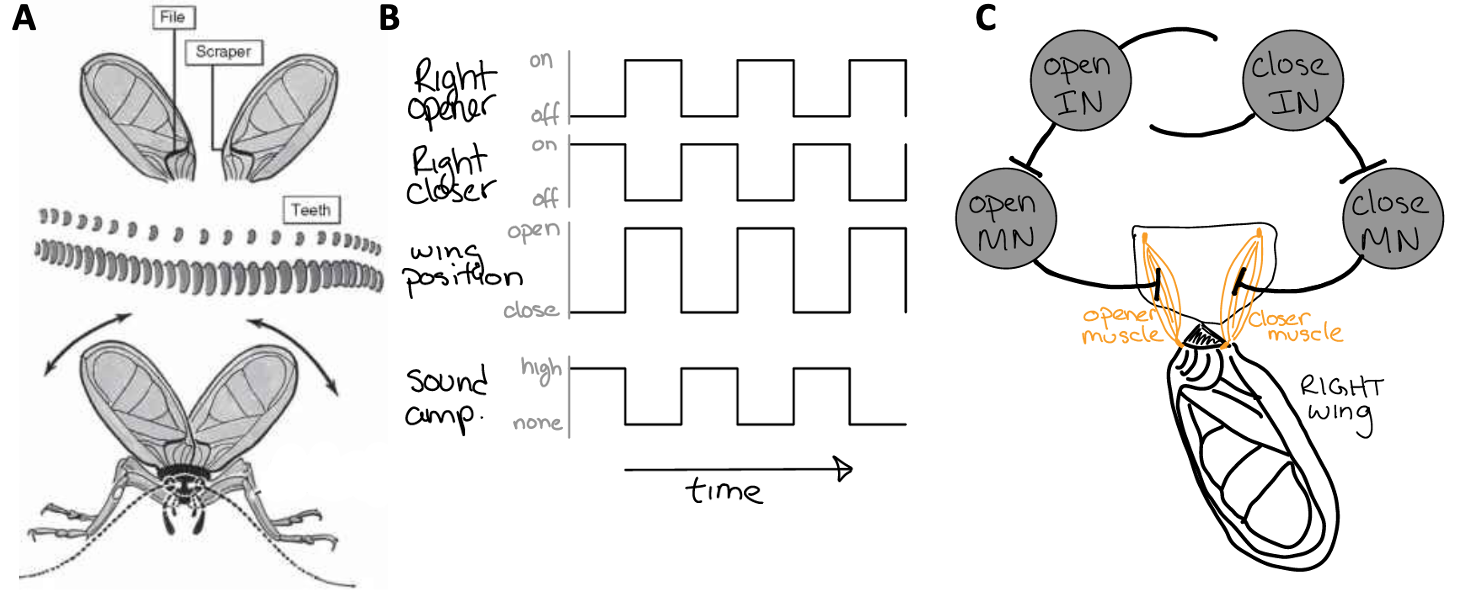
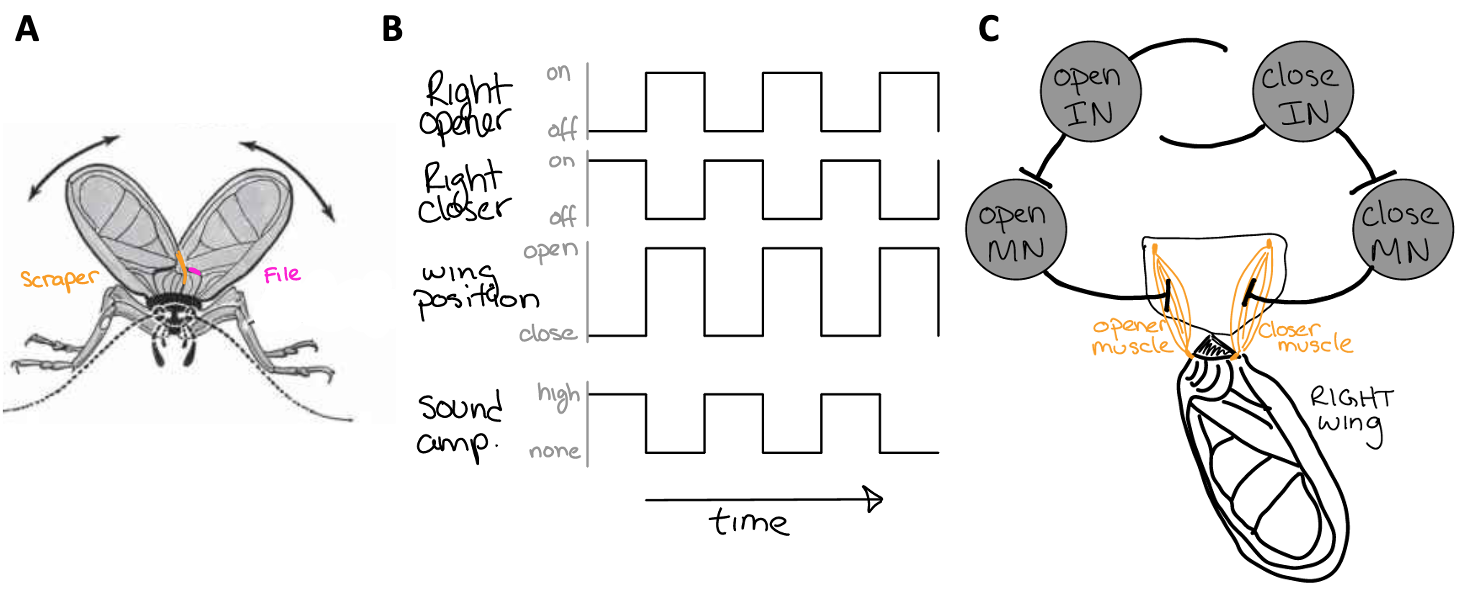
edits to neural mechanisms

diff --git a/levels-of-analysis/neural.md b/levels-of-analysis/neural.md
@@ -1,6 +1,6 @@
 # Neural Mechanisms
 
-[Day 1](neural_day1)
+[Day 1](neural_day1)  
 [Day 2](neural_day2)
 <!-- <hr>
 
@@ -229,7 +229,7 @@ A) Motor neurons synapse onto muscles. B) Motor neurons vary their rate (frequen
 
 Sensors are special types of neurons that change their membrane potential in response to changes in physical energy in the environment. Physical energy can take the form of light, pressure, movement, etc. 
 
-Let's consider a sensor that hyperpolarizes in response to an increase in light (example mechanism in the margin figure) and depolarizes in response to an increase in light. The hyperpolarization decreases its synaptic release of molecules (*neurotransmitters*). This sensor provides inhibitory synaptic input to a "post-synaptic" neuron. 
+Let's consider a sensor that hyperpolarizes in response to an increase in light (example mechanism in the margin figure) and depolarizes in response to an decrease in light. The hyperpolarization decreases its synaptic release of molecules (*neurotransmitters*). Let's say this sensor neuron (SN) provides inhibitory synaptic input to a "post-synaptic" (PN) neuron (Figure 27A). 
 
 :::{figure} /images/sensor-circuit.png
 :width: 600
@@ -237,9 +237,15 @@ Let's consider a sensor that hyperpolarizes in response to an increase in light 
 **A)** A sensor neuron (SN) that hyperpolarizes in response to light synapses onto a post-synaptic neuron (PN). The synapse is inhibitory for the PN. **B)** Synaptic release from the sensor is proportional to its membrane potential. **C)** Example changes in membrane potential for the SN and PN in response to a change in the light stimulus over time. 
 :::
 
+---
+> ⏳ 3 min 
+
 ***Q1: What happens to the membrane potential of the post-synaptic neuron when there is a flash of light onto the sensor?***
 
 
+⏸ PAUSE here for class-wide discussion
+
+---
 ### Circuits
 
 When groups of neurons connect with each other via inhibitory or excitatory synapses to form circuits, complex outputs can emerge. 
@@ -251,14 +257,14 @@ When groups of neurons connect with each other via inhibitory or excitatory syna
 
 A) Two excitatory synapses in a row. If the first neuron depolarized and spiked, the second neuron would then depolarize soon after and may spike as well. If the first neuron hyperpolarized, it would not spike and the second neuron would just stay at its *resting* membrane potential (no change in its output).   
 B) An excitatory synapse followed by an inhibitory synapse. If the first neuron depolarized and spiked, the second neuron would then hyperpolarize soon after.     
-C) Convergence and divergence in heterogeneous neural circuits. 
+C) Examples of ***convergence*** and ***divergence*** in heterogeneous neural circuits. 
 :::
 
 
 ---
 > ⏳ 5 min 
 
-***Q2: Draw a neural circuit composed of an auditory sensor neuron, a motor neuron and a muscle. The sensor neuron is depolarized by sudden increases in the amplitude of sound. The circuit should contract the muscle when the sound amplitude in the environment suddenly increases.***
+***Q2: Draw a neural circuit composed of an auditory sensor neuron, a motor neuron and a muscle. The sensor neuron is depolarized by sudden increases in the amplitude of sound (and the depolarization increases its spiking output). The circuit should contract the muscle when the sound amplitude in the environment suddenly increases.***
 
 ***Q3: Draw a neural circuit composed of the same three neurons as in Q2. The circuit should contract the muscle when the sound amplitude in the environment suddenly decreases. Hint: you can make any neuron have a "resting" membrane potential above spike threshold (so that it is spiking in the absense of synaptic input).***
 
@@ -281,7 +287,7 @@ Neuroscience seeks to understand how neural circuits orchestrate behavior. In ge
 :width: 600
 
 Acoustic behavior of *Gryllus campestris*[^hedwig-2006].  A male sings in front of its burrow by rubbing the elevated front wings together. The calling song consists of single sound pulses (syllables) grouped
-into chirps. Attracted by the calling song a female performs phonotaxis and walks towards the singing male using acoustic cues for orientation. 
+into chirps. Females attracted by the calling song perform phonotaxis and walks towards the singing male using acoustic cues for orientation. 
 :::
 
 [^hedwig-2006]: Figure from [Hediwg (2006) Pulses, patterns and paths: neurobiology of acoustic behaviour in crickets. J Comp Physiol A](https://doi.org/10.1007/s00359-006-0115-8). Modified after Roesel von Rosenhof (1749).
@@ -290,28 +296,36 @@ into chirps. Attracted by the calling song a female performs phonotaxis and walk
 
 #### Command versus Pattern
 
-Stereotyped motor patterns (for example, FAPs) are orchestrated by neural circuits that pattern the contraction among sets of muscles. These circuits need to be activated by a ***command*** signal. But, remarkably, the command signal itself (the spiking output of a neuron) does not need to be patterned. 
+:::{index} command neuron
+:::
+
+Stereotyped motor patterns (for example, FAPs) are orchestrated by neural circuits that pattern the contraction among sets of muscles. These circuits are activated by a ***command*** signal (after a decision has been made to do the action). But, remarkably, the command signal itself (the spiking output of a command neuron) does not need to be patterned. We can demonstrate this by using experimental techniques that alter the spiking activity of specific neurons. 
 
 :::{figure} /images/cricket-singing-command-neuron.png
-:width: 700
+:width: 900
 
 Command neuron controlling calling song[^hedwig-2006]. Neuron: A recording of the command neuron's membrane potential across time in the brain of Gryllus bimaculatus. Increasing the neurons spike activity (AP/s) elicits the generation of calling song (Sound): the cricket lifts its wings and starts to sing (Forewing).
 :::
 
-The **command neuron** causes the cricket to sing, but its activity is unpatterned. What causes the patterning of the movement required to produce the patterned song?
+The **command neuron** ("Neuron" in Figure 30) causes the cricket to sing, but its activity is unpatterned. What causes the patterning of the movement required to produce the patterned song?
 
 :::{glossary} 
 central pattern generator (CPG)
-  A neural circuit that can produce patterned output in the absence of patterned input. In other words, it is a circuit that is self-sufficient at producing a stereotyped pattern of spikes that regularly changes over time.
+  A neural circuit that can produce patterned output in the absence of patterned input. In other words, it is a circuit that (once activated) is self-sufficient at producing a stereotyped pattern of spikes that regularly changes over time.
 :::
 
 :::{figure} /images/cricket-cpg-diagram.png
 :width: 800
 
-**A)** The anatomy of a chirp. The cricket's wings have a file and a scraper. When the cricket closes both of its wings together, the scraper rubs the file and vibrates the wings, producing sound. **B)** The pattern of activity among wing opener and closer muscles, wing movement (open and closed), and sound. **C)** A central pattern generator for wing movement that is comprised of motor neurons (MN) that synapse on wing opener and closer muscles and interneurons (IN). The INs provide excitatory input to MNs. MNs provide excitator input to muscles (thus contracting them). INs are also provide synaptic input to each other. 
+**A)** The anatomy of a chirp. The cricket's wings have a file and a scraper. When the cricket closes both of its wings together, the scraper rubs the file and vibrates the wings, producing sound. **B)** The pattern of activity among wing opener and closer muscles, wing position (open and closed), and sound. **C)** A central pattern generator for wing movement that is comprised of motor neurons (MN) that synapse on wing opener and closer muscles and interneurons (IN). The INs provide excitatory input to MNs. MNs provide excitator input to muscles (thus contracting them). INs are also provide synaptic input to each other. 
 ::: 
 
-***Q4: The synaptic input from each IN to the other was left undefined in C. Do these need to be excitatory or inhibitory synapses? Why?***
+---
+> ⏳ 5-10 min 
+
+***Q4: The synaptic input from each IN to the other was left undefined in Figure 31C. Do these need to be excitatory or inhibitory synapses? Why?***
+
+Usually, ***multiple CPGs need to be coordinated with each other*** to generate even simple behavioral actions. 
 
 ::::{margin} 
 :::{image} /images/cricket-hemisection.png
@@ -321,25 +335,29 @@ central pattern generator (CPG)
 :::{figure} /images/cricket-cpg-bilateral-coordination.png
 :width: 400
 
-The entire CPG circuit in Figure 31 can be represented by a circle with a tilde symbol. Often, multiple CPGs need to be coordinated with each other. There is a wing CPG on each side of the animal's body. A command neuron can excite the CPG circuits with unpatterned input. 
+Entire CPG circuits (like the one in Figure 31) are often represented by a circle with a tilde symbol. In this example, there is a wing CPG on each side of the cricket's body that controls the open/close movement of each wing. When the command neuron is *activated*, it excites both CPG circuits with unpatterned input. 
 :::
 
-***Q5: The CPGs for wing movement on each side of the cricket's body need to be coordinated with each other. What synaptic connection is needed from each CPG to the other?***
+***Q5: The CPGs for wing movement on each side of the cricket's body need to be coorectly coordinated with each other to generate song (they need to close together at the same time). To achieve this action, what synaptic connection is needed from each CPG to the other?***
+
+⏸ PAUSE here for class-wide discussion
+
+---
 
 :::{index} sensory filter
 :::
 
 #### Sensory Filtering
 
-Not all sensory stimuli are the same. Stimuli have lots of different ***features***. In the case of cricket song, we will consider two features: the *syllable period* (SP) and the loudness (amplitude). Both of these features can vary across a wide range. 
+Not all sensory stimuli are the same. Stimuli have lots of different ***features***. In the case of cricket song, we will consider two features: the *syllable period* (SP) and the loudness (amplitude). Both of these features can vary across a wide range. Different species generate song with distinct **SP**. For example, different individuals may sing with different amplitude. Amplitude can also vary with environmental features such as distance from the source. 
 
-***Sensory filtering*** results from the stimulus specificity of sensors. Sensors only respond to specific types of physical energy in the world (light, sound, odor) - we refer to these as *modalities*. Then within each modality, different sensors respond best to specific features of a stimulus (frequency of sound, wavelength of light). Each stimulus feature can vary along a continuum, and sensors are even specific to a range of feature values (500 nanometer light, 200 Hz sound). 
+***Sensory filtering*** results from the stimulus *specificity* of sensors. Sensors only respond to specific types of physical energy in the world (light, sound, odor) - we refer to these as *modalities*. Then within each modality, different sensors respond best to specific features of a stimulus (frequency of sound, wavelength of light). Stimulus feature themselves can then vary along a continuum. Sensors are even specific to a range of feature values (500 nanometer light, 200 Hz sound) within a given stimulus modality or category. 
 
-Withouth sensory filtering, there would be no specificity in behavioral responses to stimuli.   
+***Without sensory filtering, there would be no specificity in behavioral responses to stimuli.***   
 
-Female crickets move toward male cricket song. We call this *phonotaxis* and it is an FAP. It would not be adaptive for female crickets to phonotax in response to all sound, so there are sensory filters in their nervous system that are more *sensitive to* the song of a male cricket than to anything else. Different species of crickets have songs with different *syllable period*. The sensory filters are most *sensitive to* conspecific song. 
+For example, female crickets move toward male cricket song when they hear it. We call this ***phonotaxis*** and it is an FAP. It would be maladaptive for female crickets to phonotax in response to all sound. Therefore, there are sensory filters in the female cricket nervous system that are more *sensitive to* the song of a male cricket than to anything else. In addition, these sensory filters are most *sensitive to* the species-specific SP of conspecific male song.  
 
-So what does *sensitive to* mean?  
+So what does ***sensitive to*** mean? We will examine this in the next set of figures and questions.
 
 :::{figure} /images/crickets-phonotaxis-sensory-filter.png
 :width: 800
@@ -347,15 +365,24 @@ So what does *sensitive to* mean?
 Sensory filtering for species-specific song[^hedwig-2006]. **A**) Trackball system for analysing cricket phonotaxis. [See also this video of the behavior](https://youtu.be/oVL82zuPbLU) **B**) Sound patterns to test sensory tuning for conspecific song. **C**) Tuning curve of phonotaxis demonstrates the strongest response to SP34–SP42, which corresponds to the natural range of SP. Phonotaxis declined at shorter or longer syllable periods.
 :::
 
-So, at a basic level, what is a neural mechaism of phonotaxis? Sensory stimuli are transformed into changes in neuron membrane potential by sensors. Sensors then synapse onto *decision* centers in the brain, which trigger specific FAPs. If a certain threshold is reached by a sensory filter, then the FAP will be triggered.  
+At a basic level, let's think about a ***neural mechanism for FAPs***: 
+1. Sensory stimuli are transformed into changes in neuron membrane potential by sensors. 
+2. Sensors then synapse onto *decision* centers in the brain, which trigger specific FAPs. 
+3. If a certain threshold is reached by a sensory filter, then the FAP will be triggered (carried out by coordinated CPGs).
+
 The flow of information is: sensory stimuli --> sensory filter --> decision --> FAP. 
 
+Therefore, we can infer a lot about sensory filters in the nervous system by examining behavioral responses. Additionally, we can observe how the stimulus threshold for behavior is related to the stimulus threshold for spiking in neurons.  
+
 :::{figure} /images/cricket-sensory-filtering.png
-:width: 600
+:width: 700
 :align: center
 
-Both the amplitude and the SP of song effect the membrane potential of a sensory filter. 
+**A)** The song amplitude needed to evoke phonotaxis behavior (the inverse of the Figure 33C). **B&C)** Both the amplitude and the SP of song effect the membrane potential of a sensory filter. Above a certain membrane potential, the sensory filter neuron(s) will spike and activate post-synaptic (*downstream*) decision-making neurons. 
 :::
+
+---
+> ⏳ 5 min 
 
 ***Q6: The song amplitude needed to evoke an FAP is most closely related to the:  
 a. sensory threshold in Lorenz's model  
@@ -371,19 +398,27 @@ c. the action specific potential in Lorenz's model***
 The membrane potential response (y-axis) to stimuli of different amplitudes (x-axis) and SP values (color). If the sensory filter spike threshold is reached, an FAP is produced in response. 
 :::
 
+⏸ PAUSE here for class-wide discussion
+
+---
 
 ### Case Study: Aggression in Mice
 
-Aggression is a social behavior essential for securing resources and defending oneself and family. Many animals have aggressive FAPs. Across animals, we find that the release of FAPs depends, not just on the presence of external *sign stimuli*, but on the internal state of the animal. 
+Aggression is a social behavior essential for securing resources and defending oneself and family. Many animals have aggressive FAPs. Across animals, we find that the release of FAPs depends, not just on the presence of external *sign stimuli* (detected using ***sensory filters***), but on the internal state of the animal. 
+
+
 
 :::{image} /images/aggression-summary-factors.png
 :width: 800
 :::
 
-"Regions of the brain in the core aggression circuit are more specialized for aggression: activating any of those regions evokes attack, often in a time-locked manner, while inactivating any of those regions impairs or even abolishes natural aggression. The fact that aggression can be triggered as well as blocked from each of those regions supports the idea that these regions form one integrated circuit. 
+:::{epigraph}
+Regions of the brain in the core aggression circuit are more specialized for aggression: activating any of those regions evokes attack, often in a time-locked manner, while inactivating any of those regions impairs or even abolishes natural aggression. The fact that aggression can be triggered as well as blocked from each of those regions supports the idea that these regions form one integrated circuit. 
 
-The ventrolateral nucleus of the ventromedial hypothalamus (VMHvl) is perhaps the best studied region for aggression in recent years, with the vast majority of the studies done in mice. Electrical stimulation or pharmacological manipulation in the VMHvl can elicit aggression in cats, chickens, opossums and monkeys. In male and female mice, optogenetic activation of VMHvl cells, especially those expressing estrogen receptor alpha (Esr1), elicited time-locked attack toward both natural (other mice) and suboptimal targets (gloves filled with water or air; or socially inappropriate attacks at conspecifics). Upon male-intruder introduction, VMHvl cells show an elevation in baseline activity, which is sustained throughout the duration of the intruder’s presence and minutes after removal of the intruder. During male–male investigation and attack, VMHvl activity increases further, and then returns to the elevated baseline at the offset of the behavioral episode. Thus, the VMHvl cells appear to carry information regarding aggressive arousal state, aggression-provoking sensory cues and the motor execution of
-attacks."[^dayu-review]
+The ventrolateral nucleus of the ventromedial hypothalamus (VMHvl) is perhaps the best studied region for aggression in recent years, with the vast majority of the studies done in mice. Electrical stimulation or pharmacological manipulation in the VMHvl can elicit aggression in cats, chickens, opossums and monkeys. In male and female mice, optogenetic activation of VMHvl cells, especially those expressing estrogen receptor alpha (Esr1), elicited time-locked attack toward both natural (other mice) and suboptimal targets (gloves filled with water or air; or socially inappropriate attacks at conspecifics). Upon male-intruder introduction, VMHvl cells show an elevation in baseline activity, which is sustained throughout the duration of the intruder’s presence and minutes after removal of the intruder. During male–male investigation and attack, VMHvl activity increases further, and then returns to the elevated baseline at the offset of the behavioral episode. Thus, the VMHvl cells appear to carry information regarding aggressive arousal state, aggression-provoking sensory cues and the motor execution of attacks.
+
+-- Julieta Lischinsky and Dayu Lin (2020)[^dayu-review]
+:::
 
 [^dayu-review]: [Lischinsky, J.E., Lin, D. Neural mechanisms of aggression across species. Nat Neurosci 23, 1317–1328 (2020).](https://doi.org/10.1038/s41593-020-00715-2)
 
@@ -398,6 +433,11 @@ Neuroanatomical pathways for aggression in mice. Yellow indicates regions for pr
 
 Serotonin receptor mechanism of action on neuron membrane conductance
 :::
+
+---
+> ⏳ 15 min 
+
+Examine the model in Figure 38 and use what you know about neural mechanisms to answer the following questions. 
 
 :::{figure} /images/aggression-circuit-mice-ala-Lorenz.png
 :width: 700
@@ -416,6 +456,11 @@ a. sensory neurons in the olfactory bulb
 b. VMHvl neurons  
 c. neurons in the motor output circuits  
 Why did you select the choice you made versus the other options?***
+
+
+⏹ STOP here for today
+
+---
 
 ## Additional Resources
 - [BI 054 Kanaka Rajan: How Do We Switch Behaviors?](https://braininspired.co/podcast/54/)

diff --git a/assessment-sum/assessment_phylogeny-evolution.md b/assessment-sum/assessment_phylogeny-evolution.md
@@ -110,7 +110,7 @@ Find the mathematical conditions (simplified inequalitie(s)) when a population c
 A population comprised of all singers would be evolutionarily stable when:  
 		a) the risk of predation due to singing is less than the increase in mating success due to singing.   
 		b) the risk of predation due to singing is greater than the increase in mating success due to singing.  
-		c) $b$ is actually a negative numbner.  
+		c) $b$ is actually a negative number.  
 		d) the risk of predation due to singing is less than both the increase in mating success due to singing and the decrease in mating success due to the absence of singers in the population.***
 
 ***Q11 (3 point; \~ 5 minutes): (Refer to Figure 4 and show your work) Under what mathematical conditions would you predict a population comprising both singing and silent crickets simultaneously (ie. a mixed phenotype population)?***
